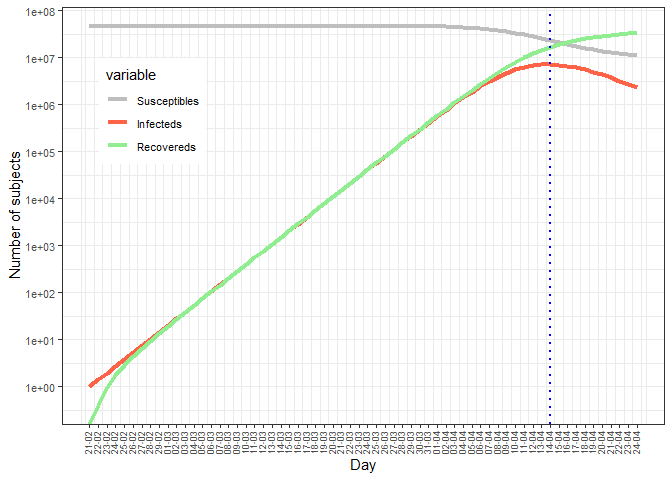
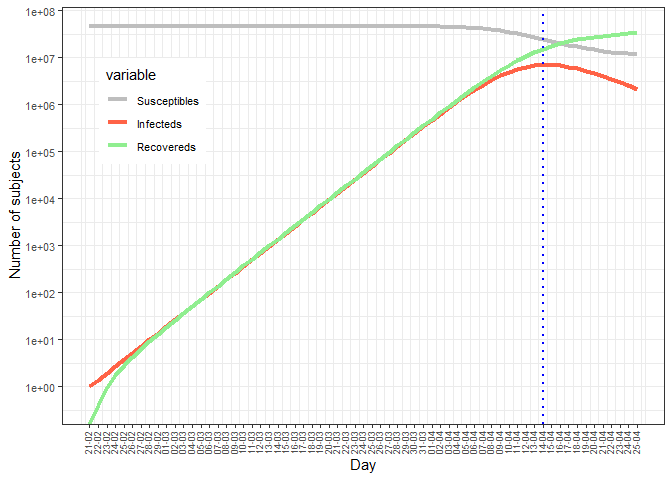
update

diff --git a/README.md b/README.md
@@ -20,26 +20,26 @@ information can be found at [IMM-UPV](https://www.imm.upv.es/covid-19/)
 Daily data:
 [Wikipedia](https://es.wikipedia.org/wiki/Pandemia_de_enfermedad_por_coronavirus_de_2020_en_España)
 
-![](Covid19_files/figure-gfm/data%20plots-1.png)<!-- -->![](Covid19_files/figure-gfm/data%20plots-2.png)<!-- -->
+![](README_files/figure-gfm/data%20plots-1.png)<!-- -->![](README_files/figure-gfm/data%20plots-2.png)<!-- -->
 
 Since we do not know the true data of infected people, two important
 variables to take into account are the daily increase in infected and
 death people.
 
-![](Covid19_files/figure-gfm/increase%20plot-1.png)<!-- -->![](Covid19_files/figure-gfm/increase%20plot-2.png)<!-- -->
+![](README_files/figure-gfm/increase%20plot-1.png)<!-- -->![](README_files/figure-gfm/increase%20plot-2.png)<!-- -->
 
 Estimates with the SIR model:
 
-![](Covid19_files/figure-gfm/SIR%20plots-1.png)<!-- -->![](Covid19_files/figure-gfm/SIR%20plots-2.png)<!-- -->
+![](README_files/figure-gfm/SIR%20plots-1.png)<!-- -->![](README_files/figure-gfm/SIR%20plots-2.png)<!-- -->
 
-According to this model, the rate of infection is 1.99, the height of
+According to this model, the rate of infection is 1.97, the height of
 the pandemic will be reached by 14/04/2020.
 
-About 7177765 people would be infected by then, which translates to
-about 1327887 severe cases, about 358888 cases in need of intensive care
-and up to 50244 deaths.
+About 6987260 people would be infected by then, which translates to
+about 1292643 severe cases, about 349363 cases in need of intensive care
+and up to 97822 deaths.
 
-##### Infected forecast for tomorrow: 57420 (2020-03-26)
+##### Infected forecast for tomorrow: 67868 (2020-03-27)
 
 Previous predictions:
 
@@ -48,6 +48,7 @@ Previous predictions:
     23-03 -> predicted = 35272; observed = 33089; error =  6.2%
     24-03 -> predicted = 57913; observed = 39673; error = 31.5%
     25-03 -> predicted = 48440; observed = 47610; error =  1.7%
+    26-03 -> predicted = 57420; observed = 56188; error =  2.1%
 
 ## REGRESSION MODEL
 
@@ -58,14 +59,15 @@ regression model. See
 The fit of the model is very good since the coefficient \(R^2\) is very
 close to 1.
 
-![](Covid19_files/figure-gfm/regresion-1.png)<!-- -->
+![](README_files/figure-gfm/regresion-1.png)<!-- -->
 
-##### Infected forecast for tomorrow (2020-03-26): 51614, with 95% prediction interval: (49827 , 53402)
+##### Infected forecast for tomorrow (2020-03-27): 60476, with 95% prediction interval: (58065 , 62887)
 
 Previous predictions:
 
     24-03 -> predicted = 38574; observed = 39673; error = -2.8%
     25-03 -> predicted = 44008; observed = 47610; error = -8.2%
+    26-03 -> predicted = 51614; observed = 56188; error = -8.9%
 
 -----
 
